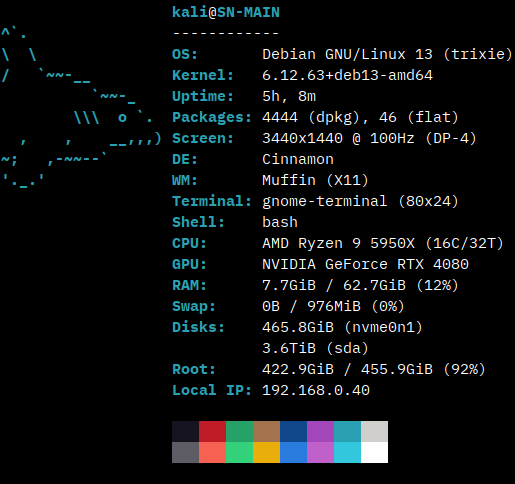
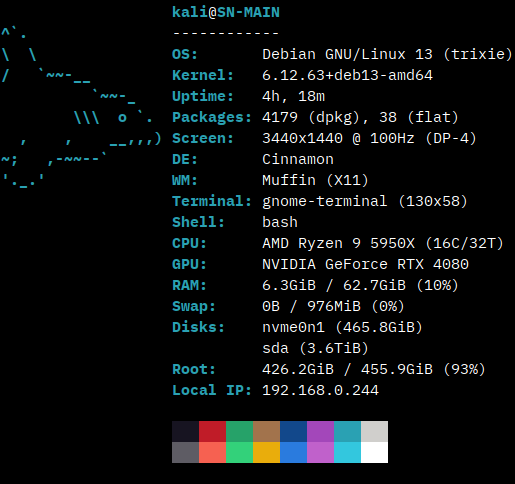
Prepare for release 0.6.1

diff --git a/src/main.c b/src/main.c
@@ -40,7 +40,7 @@
 
 
 
-#define VERSION     "0.6.1-wip"
+#define VERSION     "0.6.1"
 
 
 
